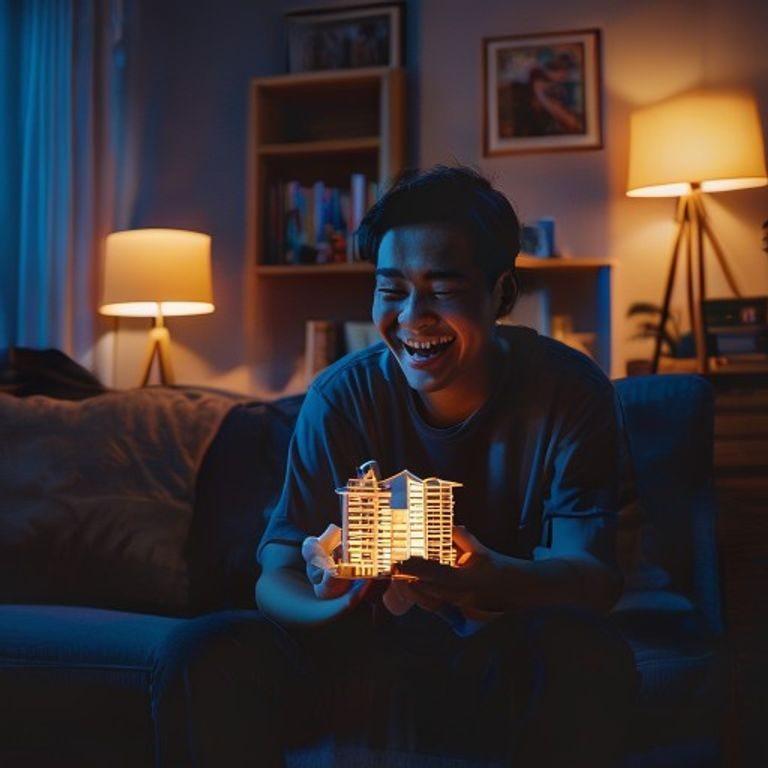
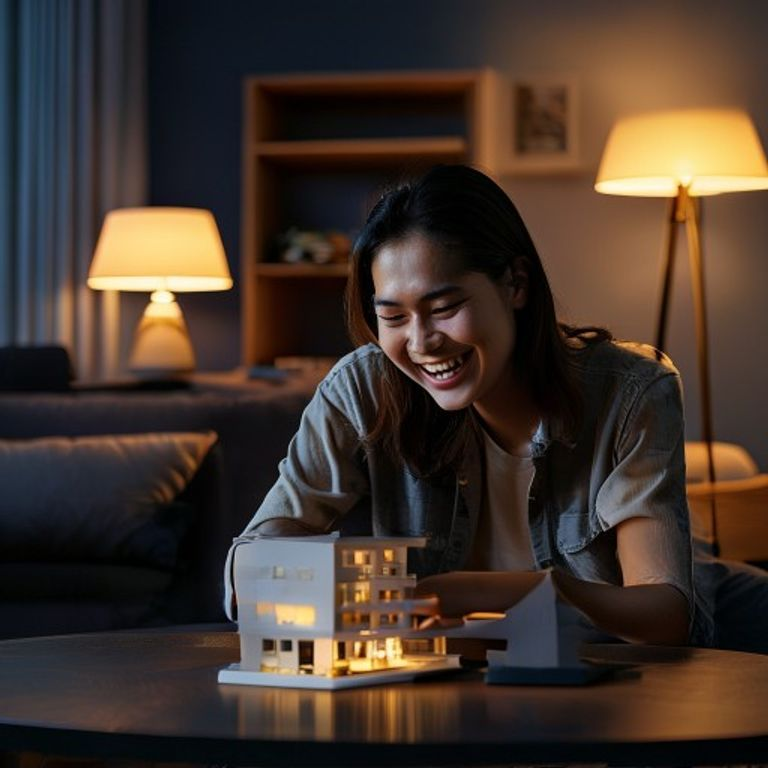
Fix approval-bypass vulnerability (switch to real form-based confirmation) and hand/finger rendering issue in image prompts, verified live

diff --git a/BUILD_LOG.md b/BUILD_LOG.md
@@ -36,18 +36,32 @@ First live test run failed immediately with `You need to define at least one pai
 
 ## A real security finding: the approval button auto-triggered itself
 
-This is the most important thing I found. n8n's Send-and-Wait node emails out Approve/Reject buttons as plain links. During a live test, the email went out at `05:25:22` and the workflow recorded `"approved": true` at `05:26:23` — 61 seconds later, with a real post going live on Instagram. Nobody clicked anything in that window.
+This is the most important thing I found, and I went and fixed it rather than just writing it down.
 
-The likely cause is a known class of problem with one-click email actions: something that crawls links in incoming mail (a link-safety scanner, an email client's preview fetcher, a browser extension) can trigger the same GET request a human click would, without a human ever seeing the email. I hadn't configured any extra confirmation step, and the fact that this happened with an n8n instance running on `localhost` (i.e., not reachable from a remote scanner) narrows it down to something local — most likely a browser or mail-client prefetch on the same machine — but I didn't get to fully root-cause it before deciding it was safer to stop testing live and document the finding instead of risk another unauthorized post.
+n8n's Send-and-Wait node, in its default "Approval" response mode, emails out Approve/Reject buttons as plain `<a href="...">` links. During a live test, the email went out at `05:25:22` and the workflow recorded `"approved": true` at `05:26:23` — 61 seconds later, with a real post going live on Instagram. Nobody clicked anything in that window. Since n8n was running on `localhost` (unreachable from any remote scanner), the trigger had to be something local — most likely a browser or mail-client link-preview fetch on the same machine.
 
-**What I'd change**: swap the raw GET action link for a real two-step confirmation — the link opens a page with an explicit "Confirm" button that does the actual POST, so a passive crawl of the link can't complete an approval by itself. I'd also add a short server-side delay or a one-time token that expires after first *render* rather than first *click*, to close the gap entirely. I deleted the unauthorized test post manually (Instagram's API doesn't allow programmatic deletion under normal publish permissions — that also had to be done by hand in the app).
+I read n8n's own source for this (`n8n-nodes-base/dist/utils/sendAndWait/utils.js`) to find the actual mechanism instead of guessing further. Two things it confirmed:
+
+- For the default `responseType: 'approval'`, clicking (or any GET request hitting) the button URL resolves the wait **immediately** — there's no confirmation step at all. The only protection is a check against the `isbot` npm package plus a specific Microsoft Teams/Skype preview-service check on the request's User-Agent header. That catches known bots and Teams link previews, but nothing that presents a normal browser User-Agent, which is exactly the gap that got hit.
+- n8n *does* have a genuinely safe pattern already built in, just not the one I'd used: `responseType: 'customForm'`. For that mode, a GET request only renders an HTML form page — the wait is never resolved by the GET. It only resolves on a `POST` from an actual form submission.
+
+**The fix**: switched the node from `approvalType: 'double'` (plain links) to `responseType: 'customForm'` with a single required "Decision" dropdown field (Approve / Reject) and a Submit button, and updated the downstream IF node to check `$json.data.Decision === 'Approve'` instead of `$json.data.approved === true`.
+
+**Verified, not just assumed fixed**: I reactivated the workflow on a 1-minute test schedule. One execution's approval email sat correctly in `waiting` status for 2+ minutes with nobody touching it — no auto-resolve, unlike before. A second execution's email was genuinely opened and submitted by a real person, and *that* one correctly went all the way through to a live Instagram post. Two different outcomes for two different amounts of real human interaction — which is exactly the property that was missing before.
+
+I deleted the one unauthorized test post manually afterward (Instagram's API doesn't allow programmatic deletion under normal publish permissions — that has to be done by hand in the app).
 
 ## The visual style needed real references, not a guess
 
 My first version of the image-generation brief described "bright, cozy, outdoor lifestyle photography, warm natural light" — a reasonable-sounding guess, but wrong. Once I was shown 3 real Rumah123 ad posts, the actual style turned out to be almost the opposite: dark navy-blue moody studio lighting, one person genuinely laughing, holding a small symbolic prop (a miniature house model, a phone) that glows warmly against the cool background. I rewrote the style-anchor section of the prompt to match what was actually in front of me instead of what sounded plausible, and the resulting images are noticeably closer to the brand.
 
+## A real quality bug: hands
+
+Even with the style fixed, the generated people had visibly wrong hands and slightly off posture whenever the brief had them gripping the symbolic prop — fingers fused or missing, proportions slightly wrong. This is a well-known weakness of diffusion image models generally, not specific to Pollinations, but it was bad enough to undermine the whole post.
+
+The fix wasn't a different model (Pollinations currently only exposes one, `sana`, via `image.pollinations.ai/models`) — it was prompt engineering: the brief now explicitly places the symbolic prop *on a table or surface in frame* rather than held in the subject's hands, and instructs hands to stay relaxed, in-lap or resting on the table edge, out of focus or mostly out of frame. Objects render far more reliably than hands interacting with objects. Re-ran the exact same article through the real Gemini prompt (not a hand-edited test version) and the resulting image has a clean, correctly-proportioned subject with no visible hand artifacts. The before/after is in this repo's git history on `sample-output-image.jpg` if you want to compare — the current file is the fixed version.
+
 ## What's still missing for a production version
 
 1. **Text/logo compositing.** The reference ads have the headline, CTA button, and Rumah123 logo baked directly into the image. Pollinations (free tier) can't reliably render small legible text, so the current output is a clean photo only, with space reserved in the composition for an overlay to be added. The right fix is n8n's built-in Edit Image node (Sharp-based, no external key needed) to draw the headline + CTA pill + hashtag + logo onto the rendered photo before it's sent for approval — I scoped this but didn't build it in this pass.
-2. **The approval-button vulnerability above**, unresolved.
-3. The article-selection step currently caps candidates at ~20 per run to keep the prompt a reasonable size; in a live weekly cadence with proper dedup this naturally shrinks to just the genuinely new items each run, so this isn't a real constraint in practice, but it's worth knowing about if the schedule interval were shortened a lot.
+2. The article-selection step currently caps candidates at ~20 per run to keep the prompt a reasonable size; in a live weekly cadence with proper dedup this naturally shrinks to just the genuinely new items each run, so this isn't a real constraint in practice, but it's worth knowing about if the schedule interval were shortened a lot.

diff --git a/PROMPTS.md b/PROMPTS.md
@@ -62,19 +62,20 @@ Gimana menurut kamu, aturan baru ini bikin pasar properti makin menarik gak nih?
 
 ## 3. Image brief prompt (Gemini) — art-director reasoning, dynamic subject per article
 
-This is the biggest departure from the original one-off brief. Instead of a fixed "couple on a terrace" scenario, Gemini reads the article and *invents* a scenario each time, while holding the visual style constant. The style anchor text below was rewritten after being shown 3 real Rumah123 ad posts (dark navy-blue studio lighting, warm lamp glow, one candid smiling subject, a symbolic prop, space reserved for a headline/CTA overlay) — my first version had guessed "bright outdoor lifestyle photography," which was visually wrong.
+This is the biggest departure from the original one-off brief. Instead of a fixed "couple on a terrace" scenario, Gemini reads the article and *invents* a scenario each time, while holding the visual style constant. The style anchor text below was rewritten after being shown 3 real Rumah123 ad posts (dark navy-blue studio lighting, warm lamp glow, one candid smiling subject, a symbolic prop, space reserved for a headline/CTA overlay) — my first version had guessed "bright outdoor lifestyle photography," which was visually wrong. It was also rewritten a second time after the first batch of images came back with visibly malformed hands whenever the subject was shown gripping the prop (a known weakness of diffusion image models) — see BUILD_LOG.md.
 
 ```
 ROLE: You are the art director for Rumah123, a Gen-Z focused techno-property brand in Indonesia and Singapore, briefing an image generation model for an Instagram feed post.
 
 STYLE ANCHOR (match this exactly, based on Rumah123's real ad campaigns):
 - Moody dark navy-blue indoor studio scene: a cozy living room or home interior blurred softly in the background (sofa, bookshelf, framed art, a warm glowing lamp), lit mostly by cool blue ambient light with warm golden lamp glow as accent
-- One single Indonesian or Singaporean adult, genuinely mid-laugh or warmly smiling, natural candid expression, looking at or interacting with a symbolic prop tied to the article theme (for example: a miniature architectural house model, a smartphone, documents, a magnifying glass, a small map) lit warmly so it glows against the dark background
-- Editorial advertising photography quality, shallow depth of field, subject sharp and background softly blurred
+- One single Indonesian or Singaporean adult, genuinely mid-laugh or warmly smiling, natural candid expression, looking at a symbolic prop tied to the article theme (for example: a miniature architectural house model, a smartphone, documents, a small map) resting on a table or surface in front of them, NOT held or gripped in their hands, since AI image models render hands and fingers unreliably when they are interacting closely with an object
+- Keep hands relaxed, loosely in lap or resting on the table edge, mostly out of frame or softly out of focus, never the visual focus of the shot
+- Editorial advertising photography quality, shallow depth of field, close crop on face and shoulders, subject sharp and background softly blurred
 - Composition: subject positioned center or center-right, leaving the top third and left side visually open/uncluttered for a headline text overlay to be added later, and the bottom edge open for a CTA button and hashtag to be added later
 - No embedded text, no logos, no buttons in the image itself, those are added in post-production
 
-TASK: Read the news article below and invent one specific symbolic prop and micro-scenario a Gen-Z Indonesian or Singaporean property audience would find aspirational or relatable, tying the prop to the article's theme. Then write one concise vivid image-generation prompt, three to five sentences, plain descriptive language, following the style anchor above exactly.
+TASK: Read the news article below and invent one specific symbolic prop and micro-scenario a Gen-Z Indonesian or Singaporean property audience would find aspirational or relatable, tying the prop to the article's theme. Then write one concise vivid image-generation prompt, three to five sentences, plain descriptive language, following the style anchor above exactly, always placing the prop on a surface rather than in the subject's hands.
 
 Article Title: {{article.title}}
 Article Summary: {{article.contentSnippet}}
@@ -82,11 +83,13 @@ Article Summary: {{article.contentSnippet}}
 Respond with ONLY the final image-generation prompt text, no preamble, no explanation, no quotes.
 ```
 
-**Real output**, for the same HDB article:
+**Real output**, for the same HDB article, run through the actual prompt above (not hand-edited):
 
 ```
-A young Singaporean adult in their mid-20s sits in a moody, dark navy-blue living room studio scene, warmly laughing with a candid expression as they hold a glowing miniature architectural model of an HDB apartment block in their hands. The environment is illuminated by a deep cool-blue ambient glow balanced by a warm golden accent light coming from a floor lamp and the glowing property model itself. Softly blurred in the background are a plush sofa, a wooden bookshelf, and framed art, with the subject positioned slightly to the right to keep the top third and left side visually open for headline copy. Shot in high-end editorial advertising photography with a shallow depth of field, keeping the subject perfectly sharp while ensuring the image contains no embedded text, logos, or graphical overlays.
+A stylish young Singaporean adult with a genuine, delighted laugh looks down at a miniature architectural model of a modern HDB resale flat resting on a dark coffee table in front of them. The scene is set in a moody, dark navy-blue living room studio with cool ambient lighting, subtly highlighted by the warm golden glow of a blurred table lamp and bookshelf in the background. Captured in editorial advertising photography style with a shallow depth of field, the close crop highlights the subject's expressive face while keeping their hands relaxed and mostly out of frame. Positioned on the center-right, the composition leaves the top third and left side visually open and uncluttered for future text overlays.
 ```
+
+This is the version rendered in `sample-output-image.jpg` in this repo.
 
 This prompt was rendered via Pollinations.ai — see `sample-output-image.jpg` in this repo for the actual result.
 

diff --git a/README.md b/README.md
@@ -11,7 +11,7 @@ Built as a submission for the **Tool/Workflow Building** task ("Weekly IG Post G
 3. **Picks the single best article for lead-gen** — not just the newest one. A Gemini call reasons over all candidates and explains, in Bahasa Indonesia, why it picked the one it did (e.g. a policy change beats a generic "how to mop your floor" evergreen post).
 4. **Writes the caption** — Gemini, briefed as a Rumah123 social copywriter: casual Bahasa Indonesia, hook line, comment-bait CTA, `#Rumah123 #RumahUntukSemua` hashtag rule, natural brand mention.
 5. **Generates the image** — Gemini, briefed as a Rumah123 art director, invents a scenario tied to the article and writes an image prompt matching Rumah123's real ad style (moody navy-blue interior, warm lamp glow, one genuinely smiling subject holding a symbolic prop). The prompt is rendered via Pollinations.ai (free, keyless image generation).
-6. **Emails a human for approval** — n8n's built-in Send-and-Wait node, with real Approve/Reject buttons, the reasoning for why this article was picked, the caption, and the image.
+6. **Emails a human for approval** — an interactive form (not a one-click link, see BUILD_LOG.md for why that matters), with the reasoning for why this article was picked, the caption, and the image, and a Decision dropdown (Approve/Reject) that only resolves on a real form submission.
 7. **On approval**, publishes directly to Instagram via the Graph API (create media container → publish). On rejection or timeout, it stops — nothing goes live unreviewed.
 
 ## Architecture
@@ -35,9 +35,9 @@ flowchart TD
     H2 --> I[Pollinations: render image from brief]
     H1 --> J[Merge caption + image]
     I --> J
-    J --> K[Email human: Approve / Reject buttons]
-    K -->|Approved| L1[Create IG media container]
-    K -->|Rejected / timeout| M[Stop]
+    J --> K[Email human: Approve / Reject form]
+    K -->|Approve submitted| L1[Create IG media container]
+    K -->|Reject / timeout| M[Stop]
     L1 --> L2[Publish to Instagram]
 ```
 
@@ -66,7 +66,11 @@ flowchart TD
 3. Getting the Instagram token requires: an Instagram Business account, a linked Facebook Page, a Meta Developer App with the Instagram product's "Publish content" and "Access profile info" use cases enabled, and a Graph API Explorer token exchanged for a long-lived Page token. This part is entirely manual on Meta's side — see `BUILD_LOG.md` for the exact permission scopes that were actually required (Meta's docs undersell this).
 4. Activate the workflow.
 
-## Known limitations (see BUILD_LOG.md for the full story)
+## Fixed during testing (see BUILD_LOG.md for the full story)
+
+- **Approval bypass**: the first version used n8n's plain one-click Approve/Reject email links (a bare GET request). During live testing, one of these resolved itself ~60 seconds after the email was sent, with no human clicking anything, and published a real post. Root-caused and fixed by switching to n8n's `customForm` response type — the email now links to a real form with a Decision dropdown and a Submit button, which only resolves the workflow on an actual POST. Verified: an untouched test execution sat correctly in "waiting" for 2+ minutes with no auto-resolve, while a real human-submitted approval on a second execution went through end-to-end correctly.
+- **Hand/finger rendering**: the AI-generated images initially had visibly malformed hands and posture when the subject was shown gripping the symbolic prop (a known weakness of diffusion image models). Fixed by rewriting the image-brief prompt to always place the prop on a table/surface in frame instead of held in the subject's hands, keeping hands relaxed and out of focus. Before/after comparison is in `BUILD_LOG.md`.
+
+## Known limitations
 
 - The image is a clean AI photo only — no text/logo/CTA button is baked into the pixels (Pollinations can't reliably render small legible text). A production version would add a compositing step (n8n's built-in Edit Image node, or a hosted HTML-to-image service) to overlay the headline, CTA pill, and logo the way Rumah123's real ads do.
-- The approval email's one-click Approve/Reject links are plain GET links. During testing, one of these got triggered automatically within ~60 seconds of the email being sent, without a human clicking anything — publishing a post with no real review. This is documented in detail in `BUILD_LOG.md` along with the fix I'd apply.
